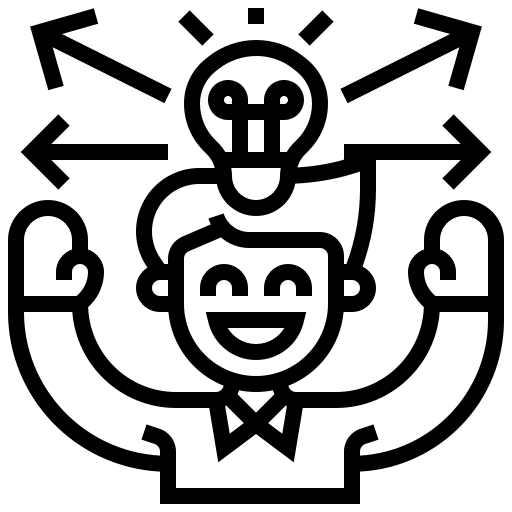
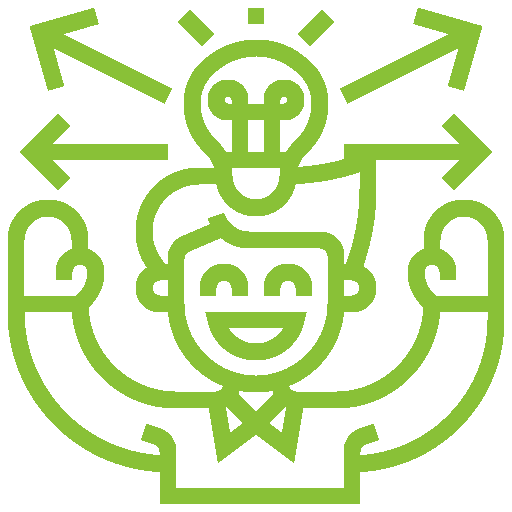
changed skill png colors

diff --git a/style.css b/style.css
@@ -49,12 +49,18 @@ html, body{
     color: white;
     font-size: 15px;
     font-weight: 500;
+    display: inline-block;
+    border-bottom: 1px solid transparent;
+    transition: border-bottom 0.2s ease;
+}
+.header_menu_anchor:hover{
+    border-bottom: 1.9px solid #00ffa3;
 }
 
 .main{
     display: flex;
     flex-direction: row;
-    justify-content: space-between;
+    justify-content: space-between; 
     align-items: center;
     padding-right: 0px;
     margin-bottom: 50px;
@@ -63,7 +69,6 @@ html, body{
 .main_section_text{
     display: flex;
     flex-direction: column;
-    gap: 30px; 
     padding-left: 75px;
     align-items: center;
 }
@@ -78,13 +83,14 @@ html, body{
 .main_h1{
     font-family: "Chakra Petch", sans-serif;
     font-size: 75px;
+    color: white;
 }
 
 .main_p{
   font-family: "JetBrains Mono";
-  color: white;
+  color: #808080;
   font-size: 17px;
-  font-weight: 400; 
+  font-weight: 500; 
 }
 
 .main_button{
@@ -92,11 +98,19 @@ html, body{
     border: none;
     height: 50px;
     width: 175px;
+    border: 0.01px solid white;
     border-radius: 30px;
     box-shadow: 0px 4px 6px rgba(0, 0, 0, 1); 
     font-family: "Chakra Petch", sans-serif;
     font-weight: 800;
+    cursor: pointer;
+    transition: background-color 0.3s ease;
+    margin-top: 50px;
+}
 
+
+.main_button:hover{
+    background-color: #00995d;
 }
 
 .footer_text{
@@ -125,7 +139,7 @@ html, body{
 
 }
 #autodidata{
-   color: #00c86f; 
+   color: #ff666b; 
 }
 #qualificado{
     color: #6bd1ff;
@@ -160,7 +174,7 @@ html, body{
     display: flex;
     align-items: center;
     margin-right: 20px;
-    color: white;
+    color: #808080;
     font-size: 11px;
 }
 #footer_direitos_img{

diff --git a/index.html b/index.html
@@ -2,7 +2,7 @@
 
 <html lang="pt-BR">
   <head>
-    <meta  charset=UTF-8>
+    <meta  charset="UTF-8">
     <meta name="viewport" content="width=device-width, initial-scale=1.0">
     <title>DevMatch - Encontre o dev certo para sua empresa</title>
     <link rel="stylesheet" href="./style.css">
@@ -10,19 +10,19 @@
   
   <body>
     <header class="header">
-      <img src="./images/white_logo.png" class="header_image" alt="logo do site">
-      <nav class="header_menu">
-        <a href="./index.html" class="header_menu_anchor">Início</a>
-        <a href="" class="header_menu_anchor">Apresentações</a>
-        <a href="" class="header_menu_anchor">Sobre</a>
-      </nav>
+        <a href=./index.html><img src="./images/white_logo.png" class="header_image" alt="logo do site"></a>
+        <nav class="header_menu">
+            <a href="./index.html" class="header_menu_anchor">Início</a>
+            <a href="" class="header_menu_anchor">Apresentações</a>
+            <a href="" class="header_menu_anchor">Sobre</a>
+        </nav>
     </header>
 
     <main class="main">
         <section class="main_section_text">
             <h1 class="main_h1">DevMatch</h1>
             <p class="main_p">Encontre o dev certo para você</p>
-            <button type="button" class="main_button">Encontrar</button>
+            <a href="./introduction.html"><button type="button" class="main_button">Encontrar</button></a>
         </section>
         <section class="main_section_image">
            <img src="./images/main_image.png" alt="imagem de menino programando" class="main_image"> 

diff --git a/introduction.html b/introduction.html
@@ -8,10 +8,11 @@
     </head>
     <body>
         <header class="header">
-            <img src="./images/white_logo.png" class="header_image" alt="logo do site">
+            <a href=./index.html><img src="./images/white_logo.png" class="header_image" alt="logo do site"></a>
+ 
             <nav class="header_menu">
             <a href="./index.html" class="header_menu_anchor">Início</a>
-            <a href="" class="header_menu_anchor">Apresentações</a>
+            <a href="./introduction.html" class="header_menu_anchor">Apresentações</a>
             <a href="" class="header_menu_anchor">Sobre</a>
         </header>
         <main id="main_intro" class="main">
